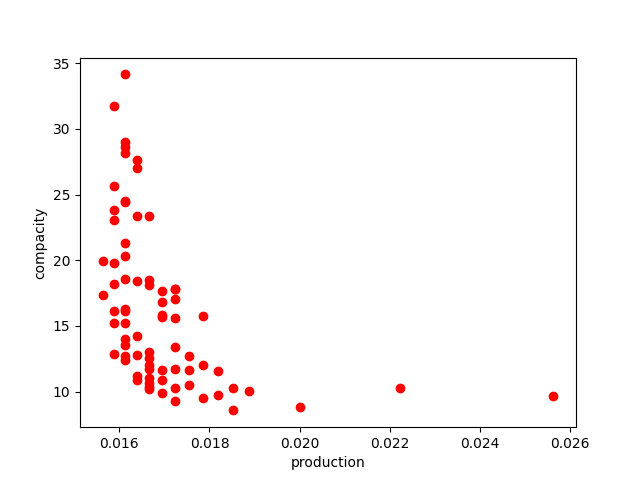
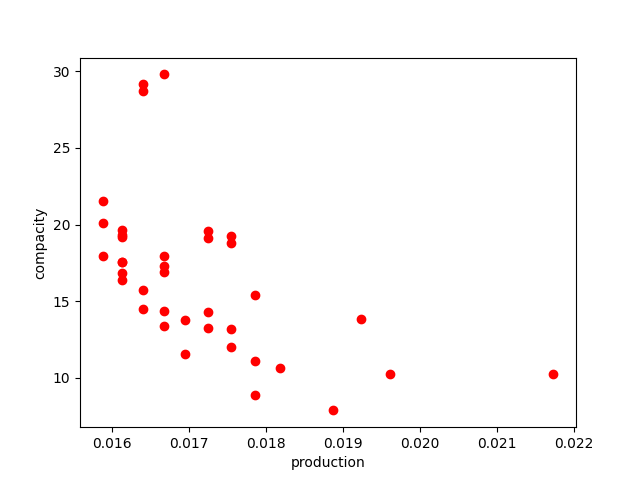
bonne seed qui fonctionne .

diff --git a/main.py b/main.py
@@ -28,6 +28,9 @@ USE_EVOLUTION_LOOP = True
 
 best_scores = []
 
+random.seed(1)
+np.random.seed(1)
+
 """ HELPER FUNCTIONS """
 
 
@@ -136,7 +139,7 @@ def plot_solution(solution):
         bought_plot[solution[i]] = 5
 
     fig, axs = plt.subplots(1, 1, figsize=(10, 9))
-    fig.canvas.manager.set_window_title("solution Plot:  " + "compacity: " + str(compacite(solution)) + " proximite: " + str(proximite(solution)) + " production: " + str(production(solution)))
+    fig.canvas.manager.set_window_title("solution Plot:  " + "compacity: " + str(compacite(solution)) + " proximite: " + str(proximite(solution)) + " production: " + str(1/production(solution)))
     plt.imshow(bought_plot, cmap='gray', interpolation='nearest')
     plt.show()
 
@@ -193,9 +196,9 @@ def plot_pareto(population):
 def onpick(event, normalise):
     ind = event.ind
 
-    #print(ind)
+    print(ind)
     solution = normalise[ind[0]][0]
-    #print(solution)
+    print(solution)
     plot_solution(solution)
 
 
@@ -243,7 +246,7 @@ def compacite(solution):
     milieuX = sum(plot[0] for plot in solution) / len(solution)
     milieuY = sum(plot[1] for plot in solution) / len(solution)
     # Critère à être minimiser
-    return sum(((plot[0] - milieuX)**2 + (plot[1] - milieuY)**2)**(1/2) for plot in solution) / len(solution)
+    return sum((((plot[0] - milieuX)**2 + (plot[1] - milieuY)**2) / len(solution))**(1/2) for plot in solution)
 
 def proximite(solution):
     """ Computes the mean of the euclidian distance of a bought parcel and inhabited zone
@@ -267,11 +270,11 @@ def solution_generator():
     """
     bought_plot = []
     # vérifie le buget
-    i=0
+
     while cost_bought_plot(bought_plot) < BUDGET:
         # obtenir un index aléatoire dans le tableau aplati
-        np.random.seed(18+i)
-        i+=1
+
+
         new_plot_flat_index = np.random.choice(COST_MAP.size)
         # convertir l'index aplati en indices de ligne et de colonne
         new_plot_index = np.unravel_index(new_plot_flat_index, COST_MAP.shape)
@@ -334,14 +337,9 @@ def reproduction_population(population):
     """
     for i in range(0, len(population), 2):
         # Selection of the parents
-        random.seed(21+i)
         random1 = random.randint(0, len(population) - 1)
-        random.seed(29+i)
         random2 = random.randint(0, len(population) - 1)
-        j=0
         while random1 == random2:
-            random.seed(35+j)
-            j+=1
             random2 = random.randint(0, len(population) - 1)
 
         parent1 = population[random1]
@@ -359,25 +357,16 @@ def reproduction_population(population):
 
 def mutation_population(population):
     nouvelle_solution_mutee = []
-    i=0
+
     for solution in population:
         copie_solution = copy.deepcopy(solution)
-        np.random.seed(42+i)
-        i+=1
         new_plot_flat_index = np.random.choice(COST_MAP.size)
         new_plot_index = np.unravel_index(new_plot_flat_index, COST_MAP.shape)
-        j=0
         while USAGE_MAP[new_plot_index] != 0 or new_plot_index in copie_solution:
-            np.random.seed(51+j)
-            j+=1
             new_plot_flat_index = np.random.choice(COST_MAP.size)
             new_plot_index = np.unravel_index(new_plot_flat_index, COST_MAP.shape)
-
         copie_solution.append(new_plot_index)
-        j=0
         while cost_bought_plot(copie_solution) > BUDGET:
-            random.seed(67+j)
-            j+=1
             copie_solution.pop(random.randint(0, len(copie_solution) - 1))
         nouvelle_solution_mutee.append(copie_solution)
 
@@ -397,27 +386,13 @@ def selection(population, population_size):
     pop_avec_norm_score = population_with_normalized_score(population)
 
 
-
-
-    # Supprimer solutions doublons
-    #for sol1_ac_score in pop_avec_norm_score:
-    #for sol2_ac_score in pop_avec_norm_score:
-
-    """# Check si les deux solutions sont différentes et que les scores sont très proches
-    difference_compacite = abs(sol1_ac_score[1] - sol2_ac_score[1])
-    difference_proximite = abs(sol1_ac_score[2] - sol2_ac_score[2])
-    difference_production = abs(sol1_ac_score[3] - sol2_ac_score[3])
-    if sol1_ac_score != sol2_ac_score and difference_compacite < 0.05 \
-            and difference_proximite < 0.05 \
-            and difference_production < 0.05:
-        pop_avec_norm_score.remove(sol1_ac_score)
-        break"""
     filtered_population = [solution[0] for solution in pop_avec_norm_score]
 
 
     # Ajouter des solutions aléatoire pour avoir la bonne taille
     while len(filtered_population) < population_size:
         filtered_population.append(solution_generator())
+
 
     # Réévaluer la population actuelle
     population_avec_score_separe = population_with_normalized_score(filtered_population)
@@ -468,12 +443,9 @@ def genetic_algorithm(initial_population_size, iteration):
         nouvelle_population = mutation_population(nouvelle_population)
         nouvelle_population = selection(nouvelle_population, initial_population_size)
     print(" Solution Cost: € {:,}".format(
-        cost_bought_plot(nouvelle_population[0])))
-    #plot_solution(nouvelle_population[0])
-    plot_pareto(nouvelle_population)
+    cost_bought_plot(nouvelle_population[0])))
 
-    # Tester s'il y a des doublons dans la solution finale
-    # find_double_sublists(nouvelle_population)
+    plot_pareto(nouvelle_population)
 
     return nouvelle_population
 
@@ -623,7 +595,8 @@ def find_double_sublists(lst):
     print(double_sublists)
 
 
-def electre(population_finale, poids_compacite = 0.0, poids_proximite = 0.0, poids_production = 1.0):
+
+def electre(population_finale, poids_compacite = 0.33, poids_proximite = 0.33, poids_production = 0.33):
     population_avec_score_normalise = population_with_normalized_score(population_finale)
     pareto_frontier, population_avec_score_normalise = get_pareto_frontier(
         population_avec_score_normalise)
@@ -653,21 +626,18 @@ if __name__ == "__main__":
     """2: INITIAL POPULATION """
 
     # Generate initial population randomly ⇾ cover as much as possible the solution space
-    population_amelioree = genetic_algorithm(300, 300)
+    population_amelioree = genetic_algorithm(350, 400)
     # Determine the dominant solutions
     # Plot the frontier and generate csv files
 
     """3: MCDA: ELECTRE or PROMETHEE"""
 
+    #poids_proximite = int(input("poids proximité (33% si rien):"))
+    #poids_compacite = int(input("poids compacité (33% si rien):"))
+    #poids_production = 1 - poids_compacite - poids_proximite
     solution_finale = electre(population_amelioree)
+    print(solution_finale)
     plot_solution(solution_finale)
-    """
-    true = True
-    while true:
-        poids_compacite = float(input("poids compacité (33% si rien):"))
-        poids_proximite = float(input("poids proximité (33% si rien):"))
-        poids_production = float(input("poids production (33% si rien):"))
-        solution_finale = electre(population_amelioree, poids_compacite, poids_proximite, poids_production)
-        plot_solution(solution_finale)
-"""
+
+
     # Rank the solutions from the Pareto Frontier according to ELECTRE/PROMETHEE.
